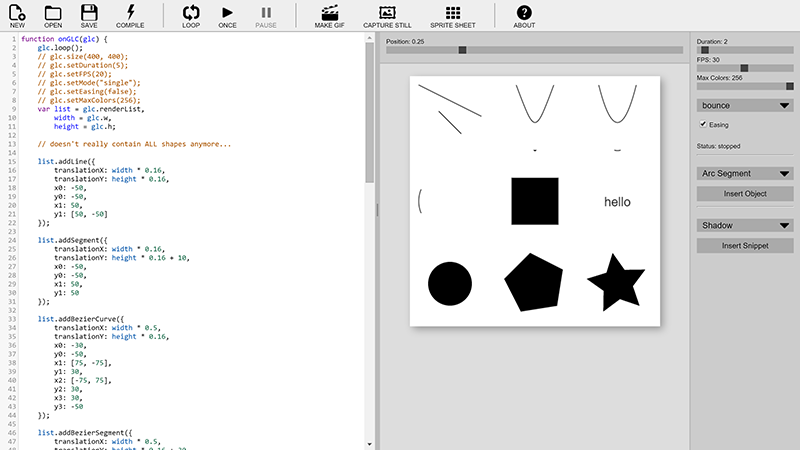
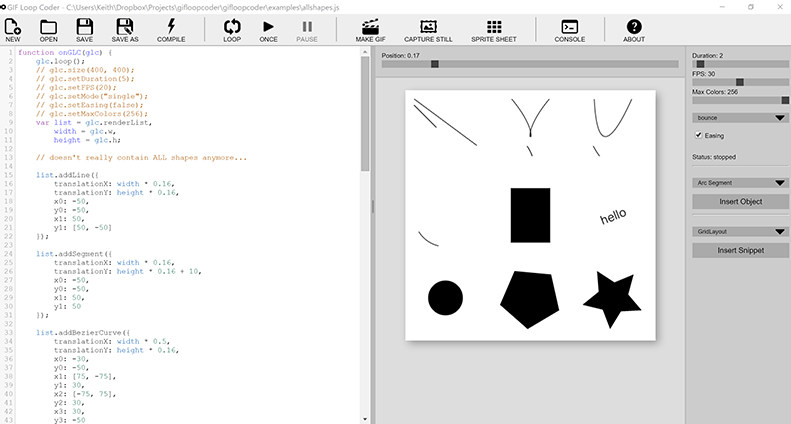
update docs

diff --git a/docs/intro.html b/docs/intro.html
@@ -221,6 +221,7 @@ list.addCircle({
 <li>The <strong>Make GIF</strong> button causes the animation to play through one time and begins capturing frames. When the animation is done, it assembles the captured frames into an animated gif, which it displays in a lightbox-type overlay. Shortcut: Control-G</li>
 <li>The <strong>Capture Still</strong> button will capture the single frame showing in the Canvas panel and display it in the lightbox overlay.</li>
 <li>The <strong>Sprite Sheet</strong> button causes the animation to play through one time and begins capturing frames. When the animation is done, it assembles the captured frames into a sprite sheet, which it displays in the lightbox overlay.</li>
+<li>The <strong>Console</strong> button opens up the developer console. This can be useful for debugging a script if it's not doing what you want it to.</li>
 <li>The <strong>About</strong> button displays some information about the app.</li>
 </ul>
 <p>Then there's the Control Panel. From top to bottom, here's what it does:</p>
@@ -232,7 +233,7 @@ list.addCircle({
 <li>The <strong>Easing</strong> checkbox gives the animation an ease-in and ease-out to the animation if checked. Otherwise, it performs a straight linear interpolation.</li>
 <li>The <strong>Status</strong> indicator lets you know what's happening</li>
 <li>The <strong>Object Snippets</strong> dropdown lets you insert a pre-written snippet of code into the code panel that will define an object. Place the cursor at the point you want in the code, choose a snippet and click the insert button.</li>
-<li>The <strong>Other Snippets</strong> dropdown lets you insert a useful, pre-defined snipped of code into the code panel. Place the cursor at the point you want in the code, choose a snippet and click the insert button.</li>
+<li>The <strong>Other Snippets</strong> dropdown lets you insert a useful, pre-defined snipped of code into the code panel. Place the cursor at the point you want in the code, choose a snippet and click the insert button. You can create your own snippets as well. This is covered in <a href="tips.html#snippets">the tips section</a></li>
 </ul>
 <p>If you ever have a hard time getting one of the sliders to land on a specific value, you can also use the left and right cursor keys on your keyboard. Pressing these will move the slider in single increments one way or the other.</p>
 <p>You can also interact with several of the controls here via the code you write. You've already seen that you can call <code>glc.loop()</code> to have your animation start looping as soon as the page loads. Alternately, you could <code>glc.playOnce()</code>. Here are all the available commands:</p>

diff --git a/docs/tips.html b/docs/tips.html
@@ -73,6 +73,7 @@
 <li><a href="#spritesheets">Creating Sprite Sheets</a></li>
 <li><a href="#quality">Encoding Quality</a></li>
 <li><a href="#external">Using an External Editor</a></li>
+<li><a href="#snippets">Snippets and Templates</a></li>
 <li><a href="#gif">GIF or JIF?</a></li>
 </ul>
 <h2 id="tips-and-advanced-use">Tips and Advanced Use</h2>
@@ -470,6 +471,10 @@ function onGLC(glc) {
 <p>Another trick that can be used to improve how some images look is dithering. With dithering, if there's an area of color that doesn't match closely to anything in the palette, it will mix two or more other colors amongst the different pixels in that area. So from a distance, they will blend together to more closely match the original color. Unfortunately, the encoder used in GLC does not support dithering. However, there are other gif optimizing tools that do. You can run your animation through one of those tools and tell it do apply dithering and you may see better results.</p>
 <h3 id="using-an-external-editor"><a name="external"></a>Using an External Editor</h3>
 <p>With the current standalone executable version of GLC, it is not possible to use an external editor. I will be working on adding that functionality back in soon.</p>
+<h3 id="snippets-and-templates"><a name="snippets"></a>Snippets and Templates</h3>
+<p>With the current standalone executable version of GLC, you can define your own custom template and snippets. To do this, you need to locate the <code>config</code> folder of the GLC installation. For Windows and Linux, this is <code>&lt;glc folder&gt;/resources/app/config/</code>. On OS X, it's a bit more complex. From the Finder, right click on <code>GIFLoopCoder.app</code> and choose &quot;Show Contents&quot;. From there, you can navigate down to <code>GIFLoopCoder.app/Contents/Resources/app/config</code>.</p>
+<p>Once you're in the <code>config</code> folder, you'll see a <code>template.js</code> file. This is what gets used when you create a new sketch in GLC. So you can edit this to create a template that you like.</p>
+<p>You'll also see a <code>snippets</code> folder which contains a few <code>.snippet</code> files. These are actually JavaScript files. The name of the file will show up in the custom snippets dropdown, and the contents is what will be inserted when you create a snippet. All you have to do is add the snippet file and restart GLC and it will add your snippet to the list.</p>
 <h3 id="gif-or-jif"><a name="gif"></a>GIF or JIF?</h3>
 <p>The &quot;g&quot; in &quot;gif&quot; is pronounced exactly the same way it is in &quot;git&quot; and &quot;gin&quot;.</p>
 </body>

diff --git a/src/docs/intro.md b/src/docs/intro.md
@@ -197,6 +197,7 @@ First the toolbar. From left to right:
 * The **Make GIF** button causes the animation to play through one time and begins capturing frames. When the animation is done, it assembles the captured frames into an animated gif, which it displays in a lightbox-type overlay. Shortcut: Control-G
 * The **Capture Still** button will capture the single frame showing in the Canvas panel and display it in the lightbox overlay.
 * The **Sprite Sheet** button causes the animation to play through one time and begins capturing frames. When the animation is done, it assembles the captured frames into a sprite sheet, which it displays in the lightbox overlay.
+* The **Console** button opens up the developer console. This can be useful for debugging a script if it's not doing what you want it to.
 * The **About** button displays some information about the app.
 
 Then there's the Control Panel. From top to bottom, here's what it does:
@@ -208,7 +209,7 @@ Then there's the Control Panel. From top to bottom, here's what it does:
 *   The **Easing** checkbox gives the animation an ease-in and ease-out to the animation if checked. Otherwise, it performs a straight linear interpolation.
 *   The **Status** indicator lets you know what's happening
 *   The **Object Snippets** dropdown lets you insert a pre-written snippet of code into the code panel that will define an object. Place the cursor at the point you want in the code, choose a snippet and click the insert button.
-*   The **Other Snippets** dropdown lets you insert a useful, pre-defined snipped of code into the code panel. Place the cursor at the point you want in the code, choose a snippet and click the insert button.
+*   The **Other Snippets** dropdown lets you insert a useful, pre-defined snipped of code into the code panel. Place the cursor at the point you want in the code, choose a snippet and click the insert button. You can create your own snippets as well. This is covered in [the tips section](tips.html#snippets)
 
 If you ever have a hard time getting one of the sliders to land on a specific value, you can also use the left and right cursor keys on your keyboard. Pressing these will move the slider in single increments one way or the other.
 

diff --git a/src/docs/tips.md b/src/docs/tips.md
@@ -17,6 +17,7 @@ Table of Contents
   - [Creating Sprite Sheets](#spritesheets)
   - [Encoding Quality](#quality)
   - [Using an External Editor](#external)
+  - [Snippets and Templates](#snippets)
   - [GIF or JIF?](#gif)
 
 ## Tips and Advanced Use
@@ -554,6 +555,14 @@ Another trick that can be used to improve how some images look is dithering. Wit
 ### <a name="external"></a>Using an External Editor
 
 With the current standalone executable version of GLC, it is not possible to use an external editor. I will be working on adding that functionality back in soon.
+
+### <a name="snippets"></a>Snippets and Templates
+
+With the current standalone executable version of GLC, you can define your own custom template and snippets. To do this, you need to locate the `config` folder of the GLC installation. For Windows and Linux, this is `<glc folder>/resources/app/config/`. On OS X, it's a bit more complex. From the Finder, right click on `GIFLoopCoder.app` and choose "Show Contents". From there, you can navigate down to `GIFLoopCoder.app/Contents/Resources/app/config`.
+
+Once you're in the `config` folder, you'll see a `template.js` file. This is what gets used when you create a new sketch in GLC. So you can edit this to create a template that you like.
+
+You'll also see a `snippets` folder which contains a few `.snippet` files. These are actually JavaScript files. The name of the file will show up in the custom snippets dropdown, and the contents is what will be inserted when you create a snippet. All you have to do is add the snippet file and restart GLC and it will add your snippet to the list.
 
 ### <a name="gif"></a>GIF or JIF?
 
